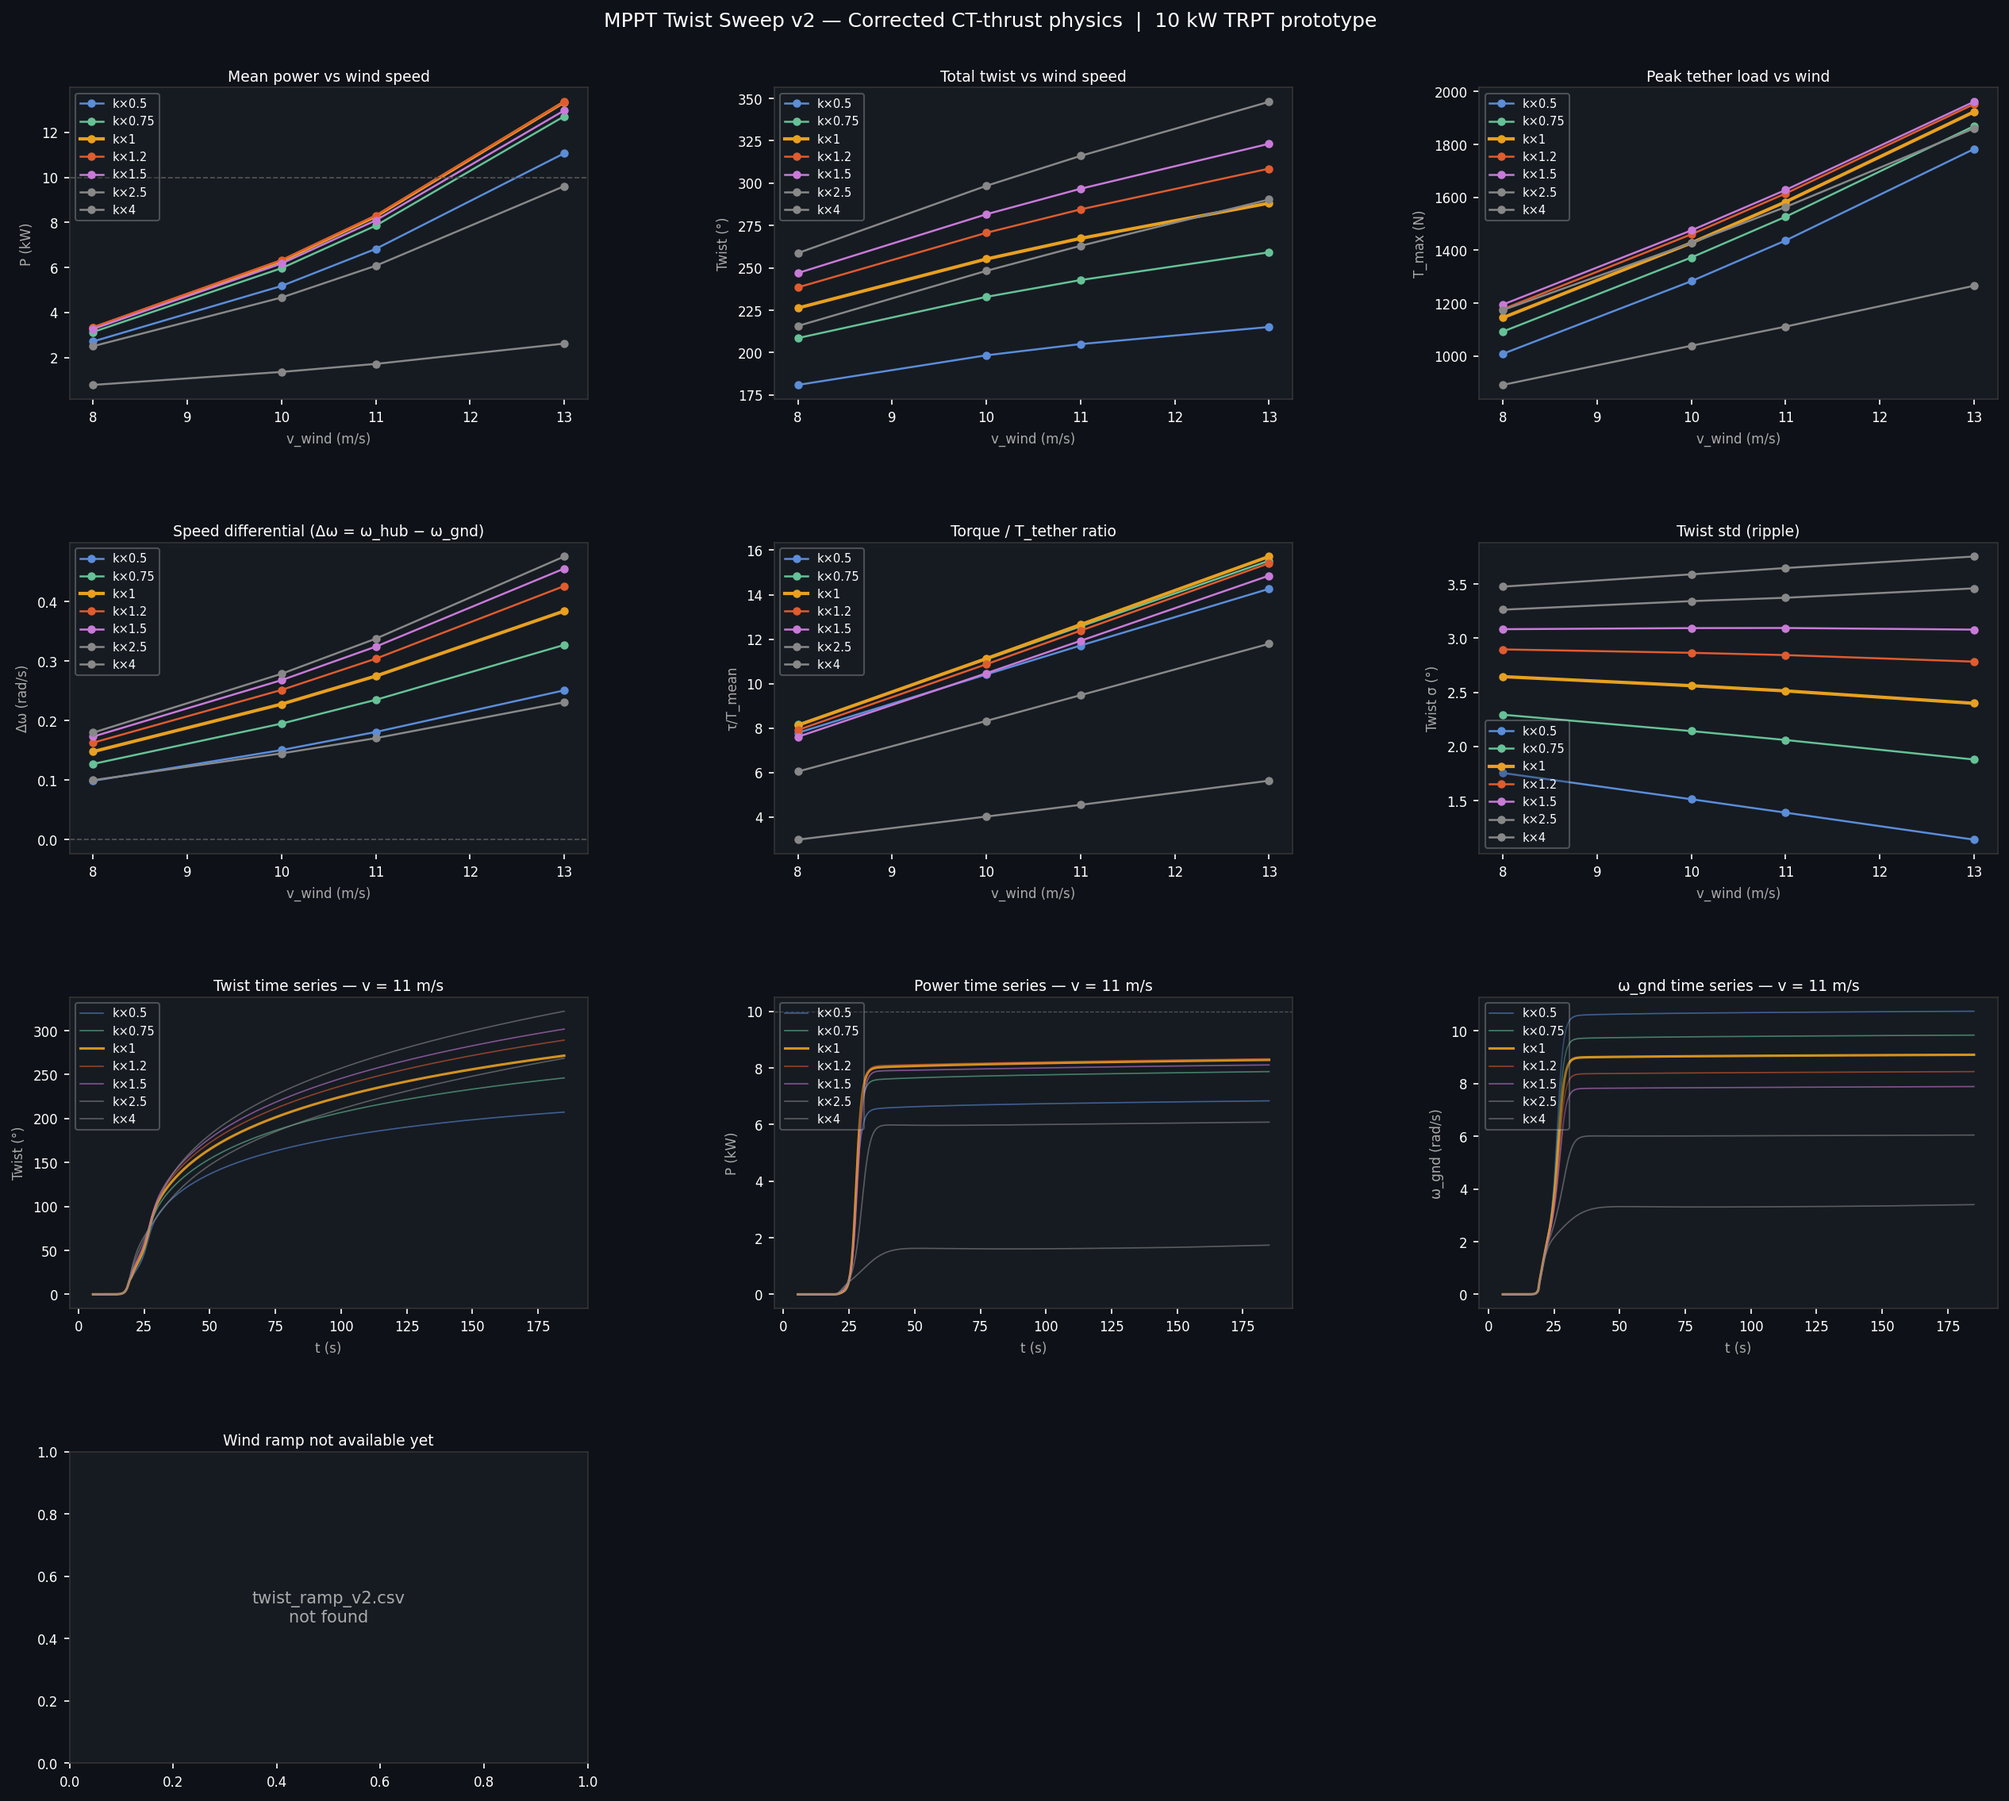
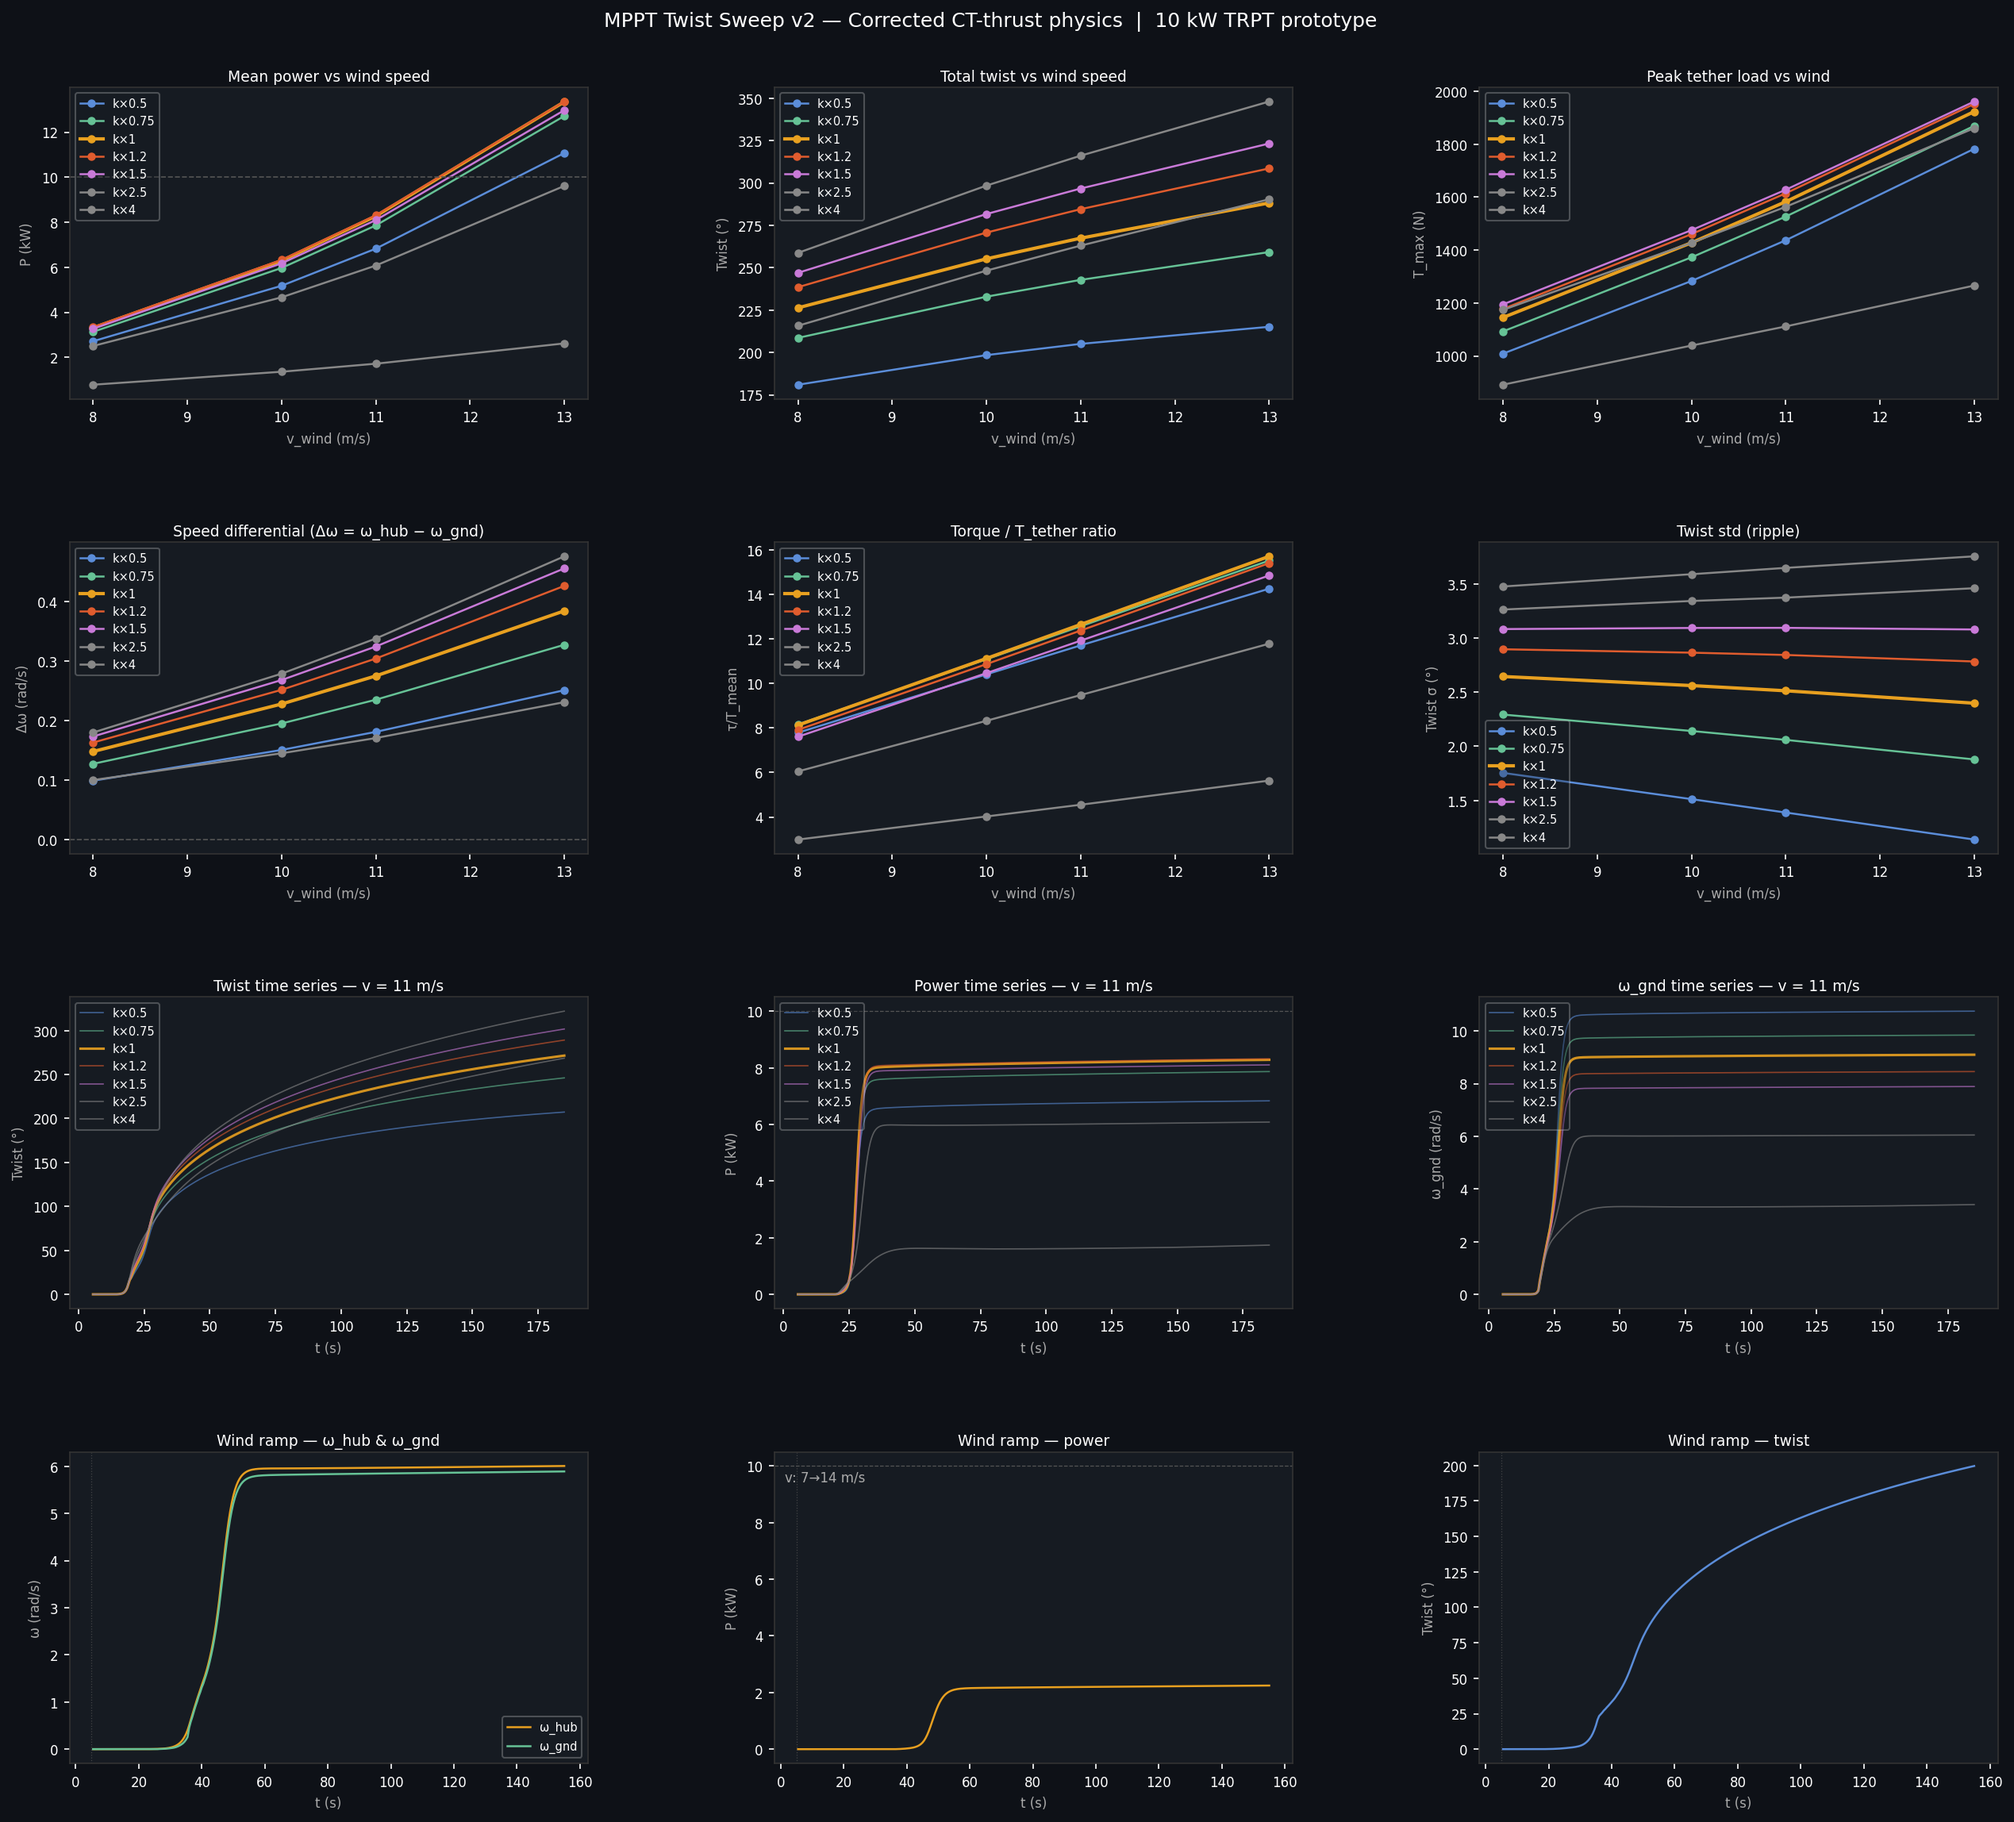
Add wind ramp results and regenerate MPPT analysis with complete dataset
twist_ramp_v2.csv: 300 rows, 7→14 m/s ramp over 150 s at k×1.0
- System dynamics show lag: P=2.25 kW at v=14 m/s (vs 13.36 kW steady-state)
- Twist builds from 0.67° → 199.6° as wind ramps up
- Δω stays ~0.116 rad/s at high wind: MPPT not yet saturated
- Wall time: 1402 s (23 min)

Regenerated twist_sweep_v2_analysis.png now includes ramp row panels.
Report updated with wind ramp section.

diff --git a/scripts/results/mppt_twist_sweep/twist_sweep_v2_report.md b/scripts/results/mppt_twist_sweep/twist_sweep_v2_report.md
@@ -22,3 +22,9 @@ Corrected CT-thrust physics | Back line active | Kite sized for 4 m/s launch
 | 1.5× | 3.27 | 6.17 | 8.09 | 12.97 |
 | 2.5× | 2.50 | 4.66 | 6.07 | 9.61 |
 | 4× | 0.78 | 1.36 | 1.72 | 2.62 |
+
+## Wind ramp (7→14 m/s over 150 s)
+
+- P at 14 m/s: 2.24 kW
+- Twist at 14 m/s: 197.8°
+- Ramp rows: 300
